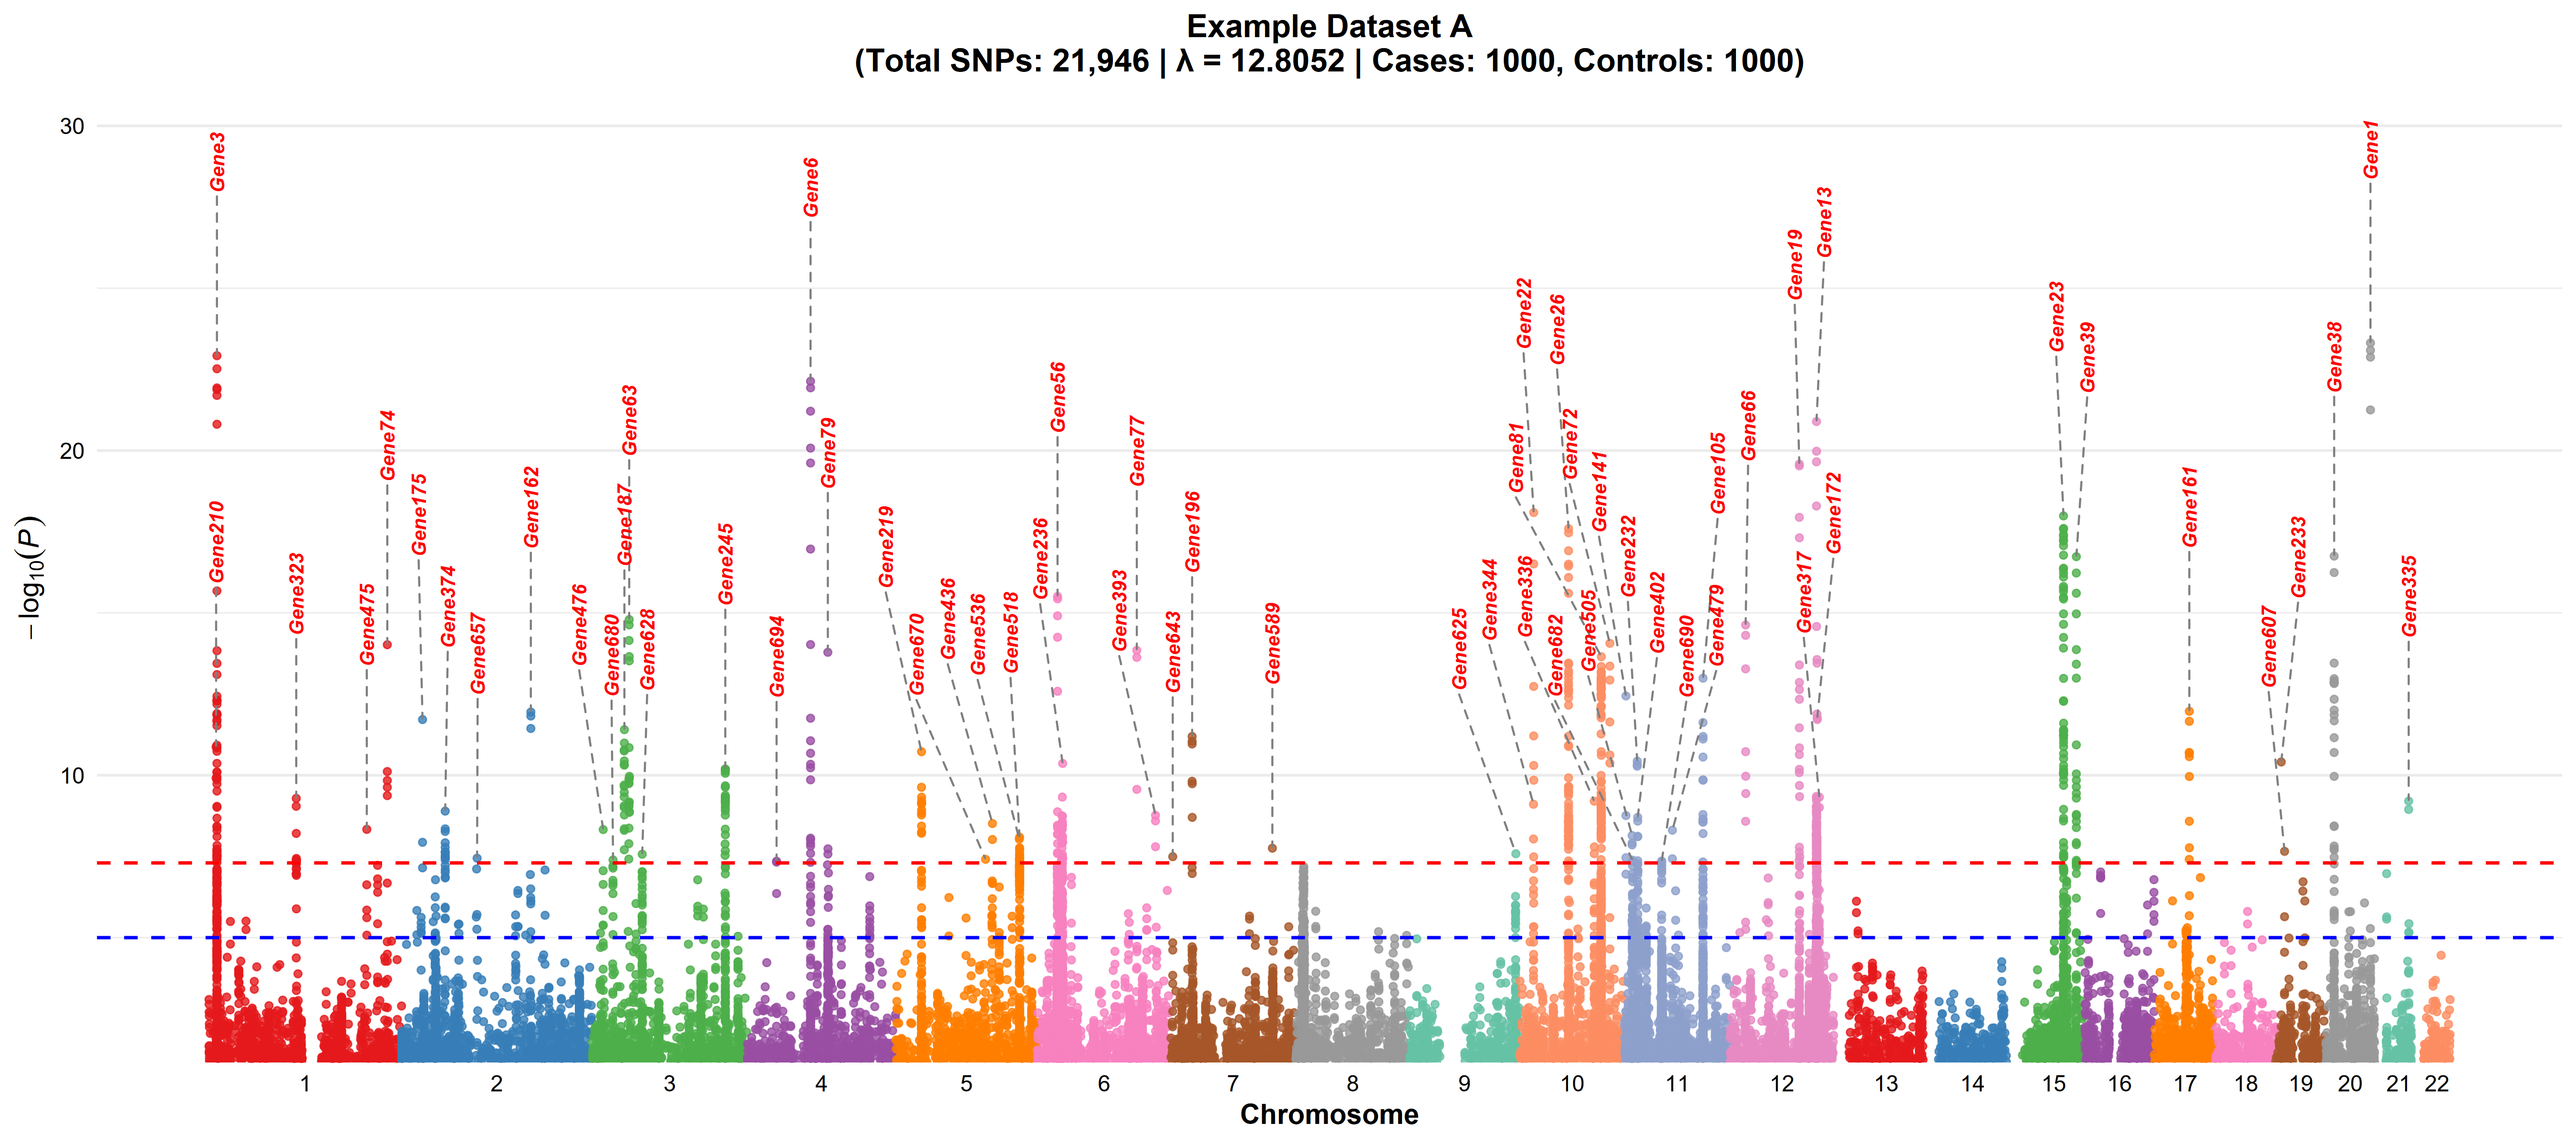
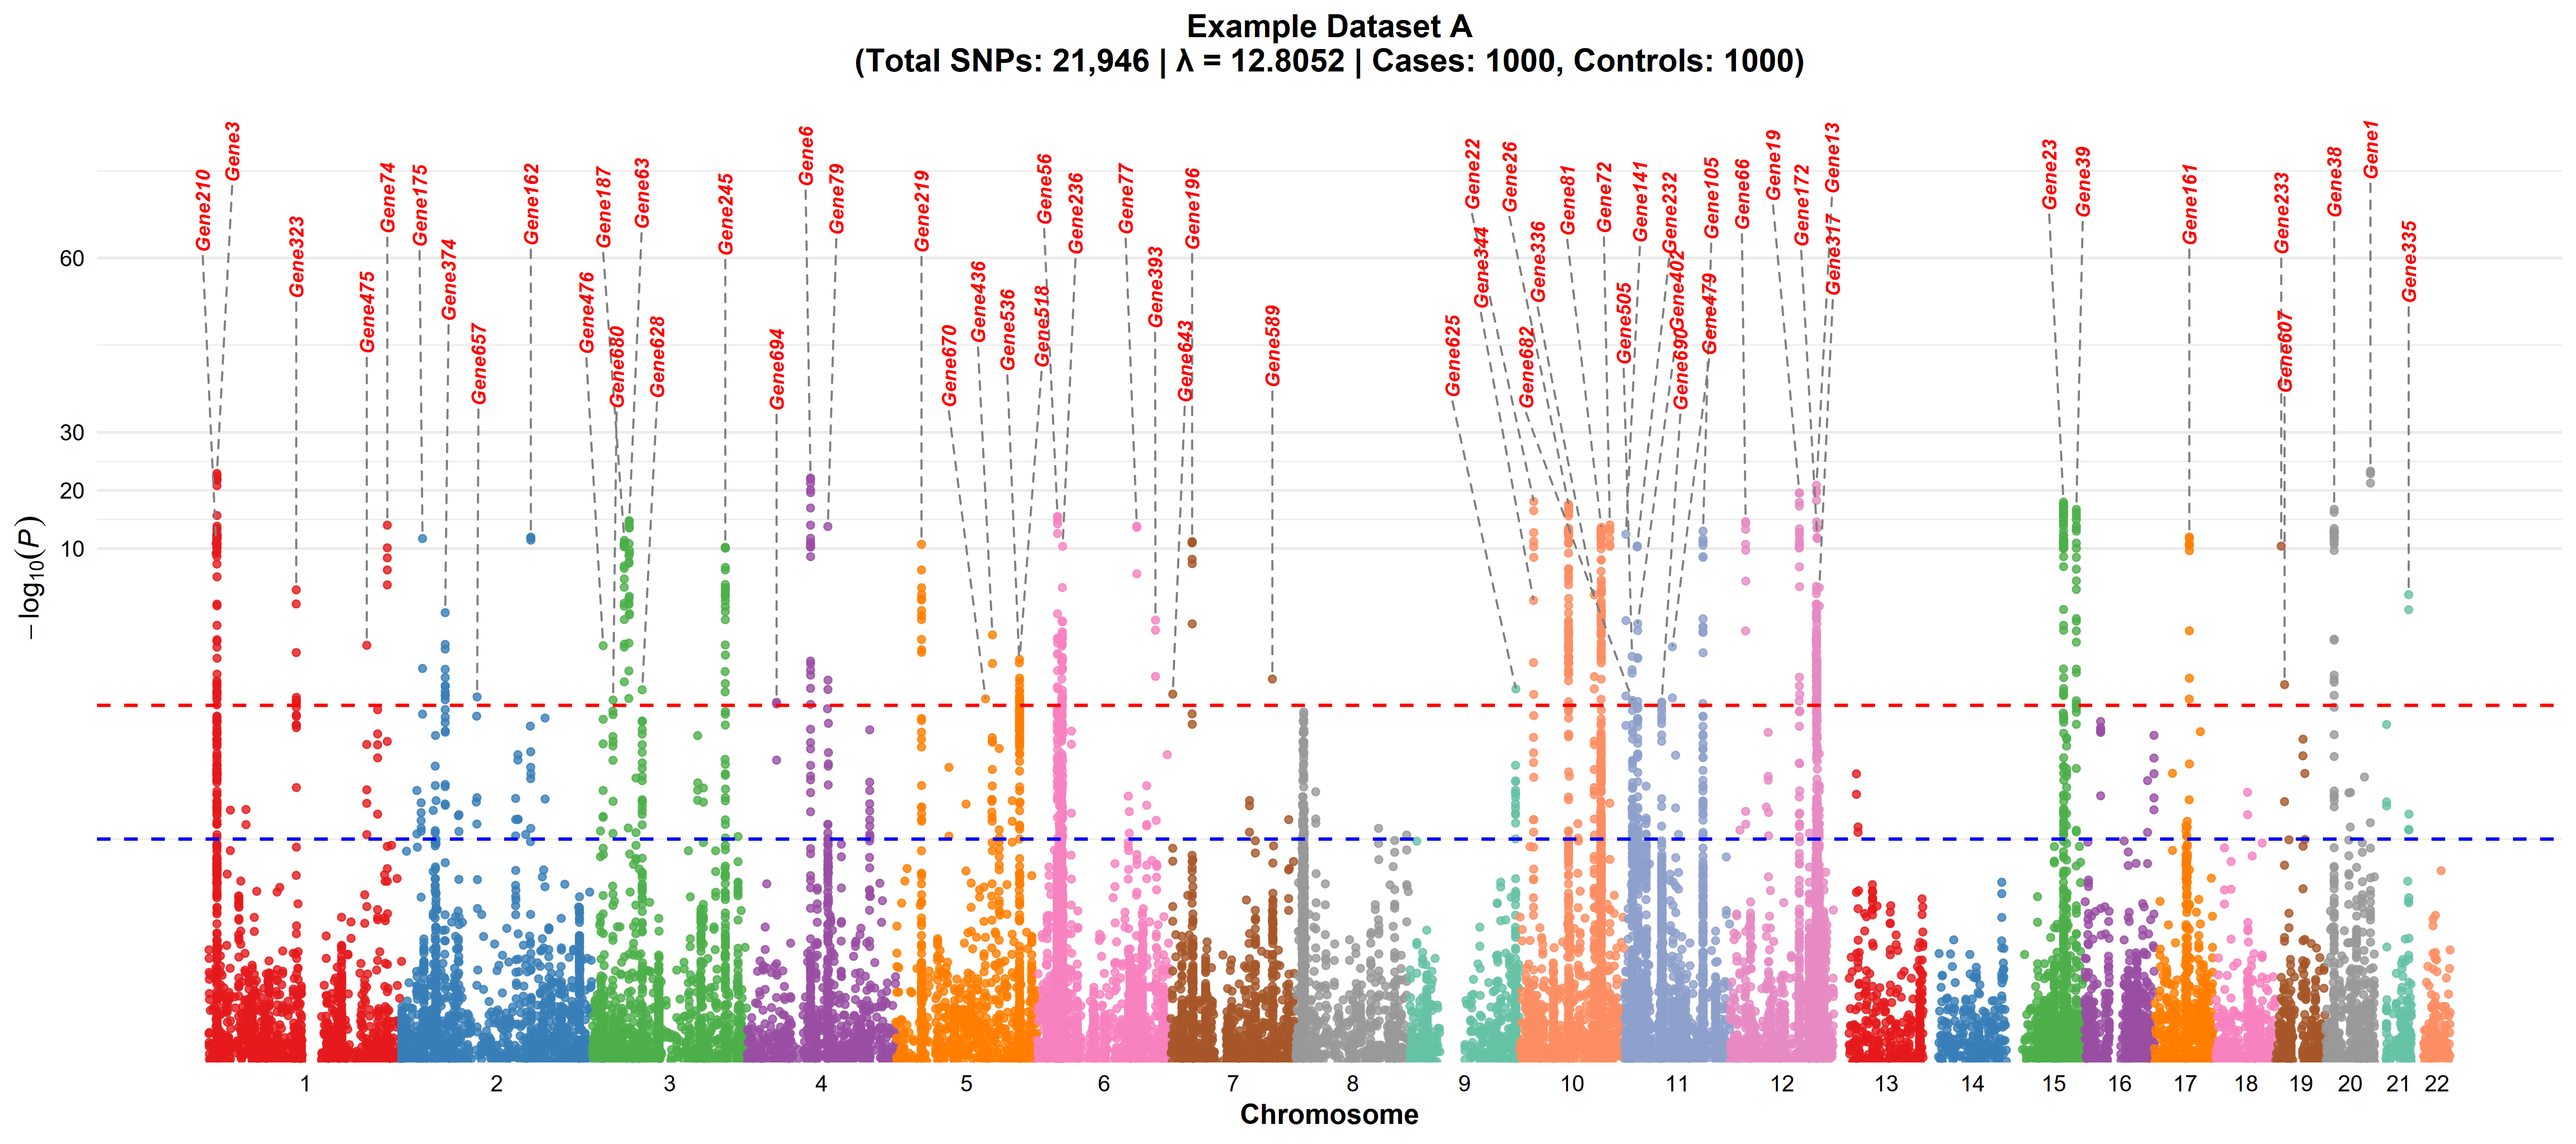
update

diff --git a/README.md b/README.md
@@ -4,7 +4,11 @@
 
 ## Features
 
-- Cluster SNPs by genomic distance and p-value
+
+## Features
+
+- **SNP clustering:** Automatically clusters SNPs by genomic distance and p-value, selecting the most significant SNP (lowest p-value) in each cluster and linking it to the associated gene. This helps highlight the best candidate SNP for each locus.
+- **Region expansion for highly significant SNPs:** The package can expand and visually emphasize regions associated with extremely significant SNPs (e.g., those with p-values less than 5e-10), making it easier to interpret and present key findings. This is controlled by the `y_axis_squish_threshold` parameter (e.g., `y_axis_squish_threshold = 10`).
 - Generate single Manhattan plots with gene/group labeling
 - Create inverted Manhattan pair plots for comparative studies
 - Publication-ready PNG and PDF outputs
@@ -53,7 +57,8 @@ gwasdataseta <- manhattantwin::cluster_snps(
    gene_col = "gene",
    output_folder = "single_plots",
    # You can customize label colors for different gene thresholds:
-   label_threshold_colors = c("red" = 5e-8, "orange" = 1e-6, "darkblue" = 1e-5)
+   label_threshold_colors = c("red" = 5e-8, "orange" = 1e-6, "darkblue" = 1e-5),
+   y_axis_squish_threshold = 10 # expandin snps less than 10 -logpvalue
  )
 ```
 
@@ -93,7 +98,8 @@ manhattantwin::manhattan_pair_plot(
   group_col = "cluster",
   gene_col = "gene",
   output_folder = "pair_plots",
-  label_threshold_colors = c("red" = 5e-8, "orange" = 1e-6, "darkblue" = 1e-5)
+  label_threshold_colors = c("red" = 5e-8, "orange" = 1e-6, "darkblue" = 1e-5),
+  y_axis_squish_threshold = 10 # expandin snps less than 10 -logpvalue
 )
 ```
 
